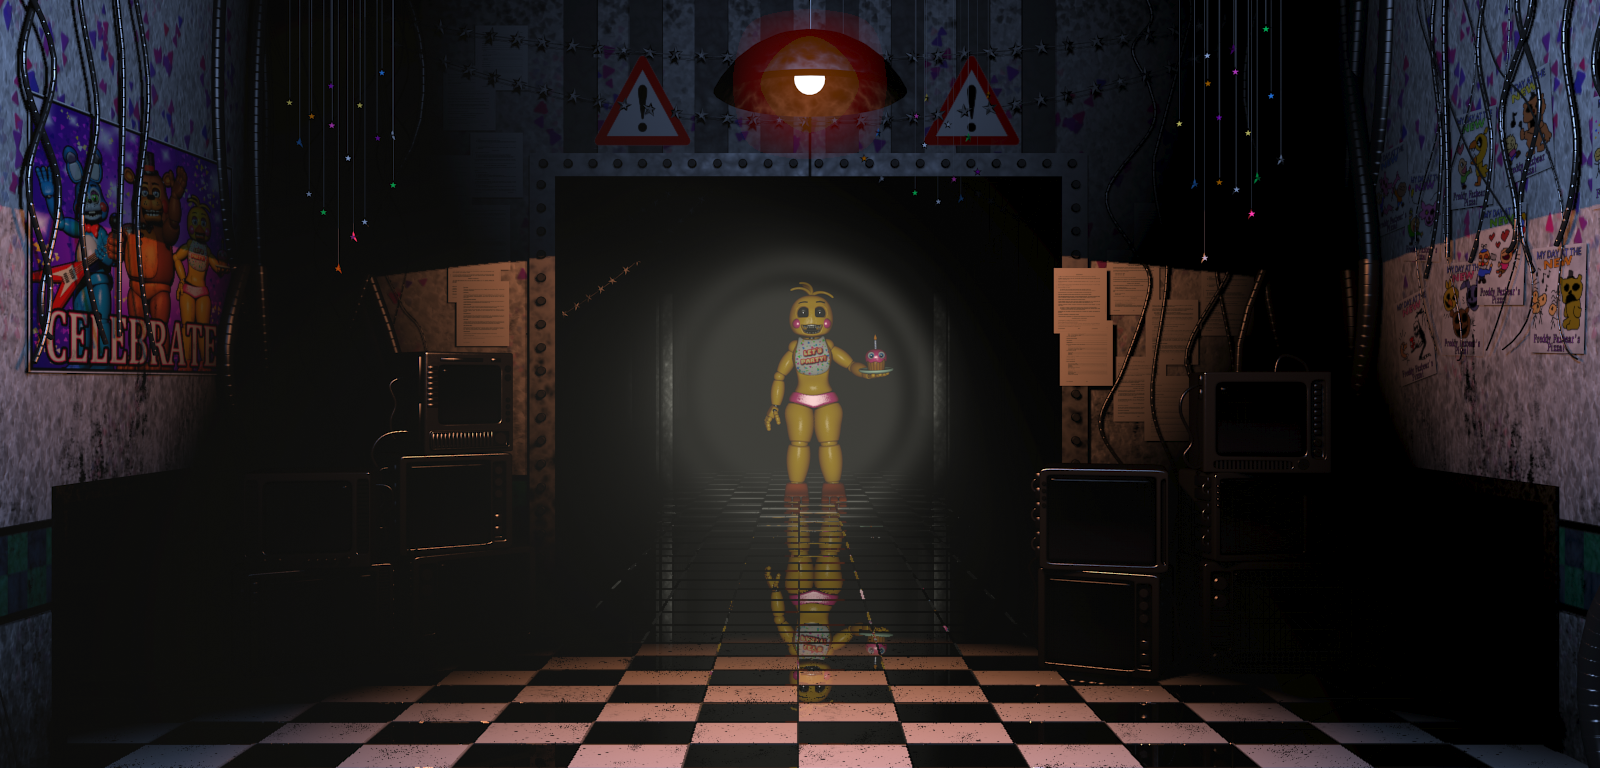
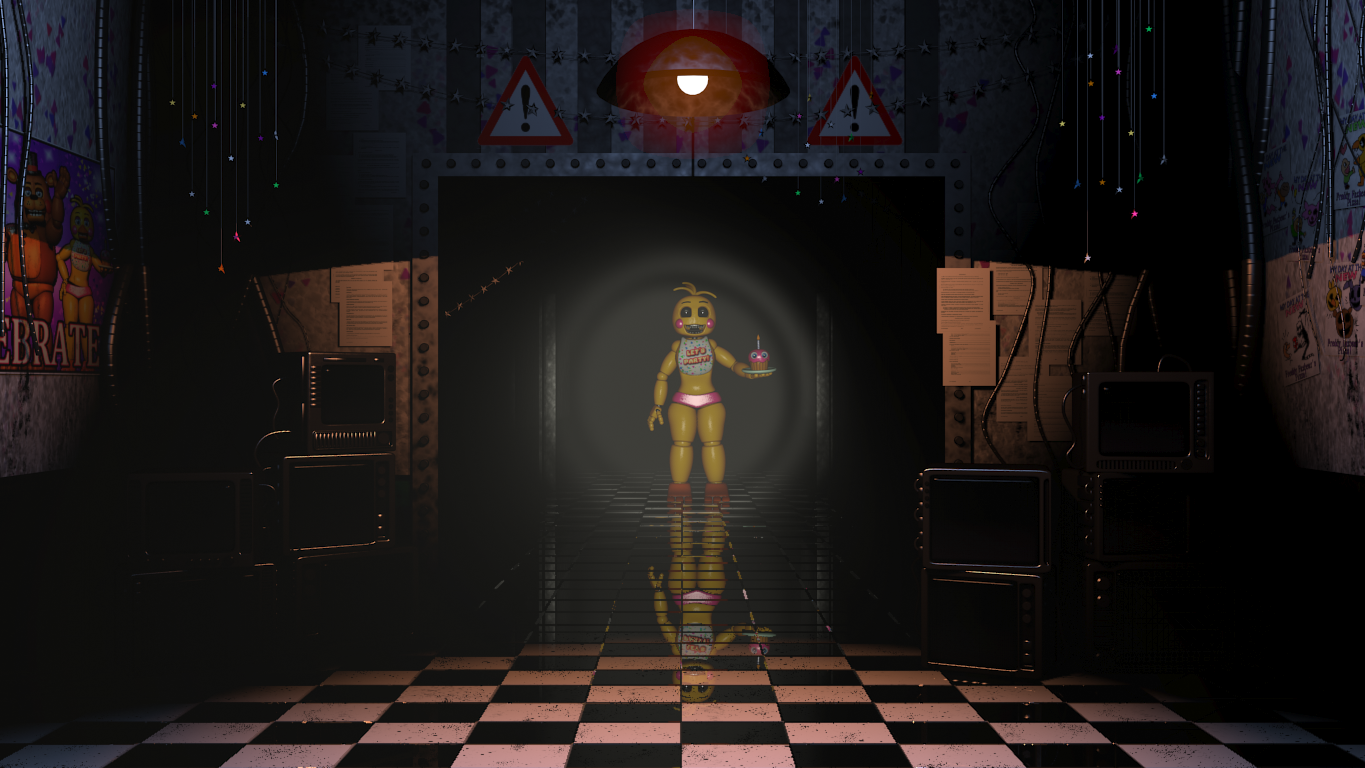
Coridor 13 14 check added

diff --git a/game/scene_frames.py b/game/scene_frames.py
@@ -61,10 +61,16 @@ class GameSceneFrames:
                 }
             }
 
-        if self.state.light == "center":
-            frames["sprites"]["center_light"] = {
+        if self.state.light == "centre":
+            frames["sprites"]["centre_light"] = {
                 "type": "static"
             }
+
+            for location in (13, 14):
+                for name in self.state.locations.get(location, []):
+                    frames["sprites"][f"centre_light_{location}_{name}"] = {
+                        "type": "static"
+                    }
 
         if self.state.is_removing_mask:
             frames["sprites"]["game_mask_off"] = {
@@ -174,13 +180,33 @@ class GameSceneFrames:
         }
         curr_sprites_frames = curr_scene_frames["sprites"]
 
-        if self.state.light == "center" and "center_light" not in curr_sprites_frames:
-            frames_data["update"]["center_light"] = {
-                "type": "static"
+        def update_centre_animatronics():
+            anim_sprites = {
+                f"centre_light_{location}_{name}"
+                for location in (13, 14)
+                for name in self.state.locations.get(location, [])
             }
 
-        if not self.state.light == "center" and "center_light" in curr_sprites_frames:
-            frames_data["delete"].append("center_light")
+            for sprite_name in anim_sprites:
+                if sprite_name not in curr_sprites_frames:
+                    frames_data["update"][sprite_name] = {
+                        "type": "static"
+                    }
+
+            for sprite_name in curr_sprites_frames:
+                if sprite_name.startswith("centre_light_") and sprite_name not in anim_sprites:
+                    frames_data["delete"].append(sprite_name)
+
+        if self.state.light == "centre":
+            if "centre_light" not in curr_sprites_frames:
+                frames_data["update"]["centre_light"] = {
+                    "type": "static"
+                }
+            update_centre_animatronics()
+        else:
+            for sprite_name in curr_sprites_frames:
+                if sprite_name == "centre_light" or sprite_name.startswith("centre_light_"):
+                    frames_data["delete"].append(sprite_name)
 
         if self.state.music_box.power < 20 and "danger_squard" not in curr_sprites_frames:
             frames_data["update"]["danger_squard"] = {
@@ -671,10 +697,6 @@ class GameSceneFrames:
                 if self.last_scene != "6am":
                     frames_data["rewrite"] = True
                     frames_data["update"] = self.am6_frames()
-                #else:
-                    #updated_frames = self.update_game_over_frames(curr_scene_frames, anim_state)
-                    #frames_data["update"] = updated_frames["update"]
-                    #frames_data["delete"] = updated_frames["delete"]
 
                 self.last_scene = "6am"
             else:

diff --git a/config/rooms.py b/config/rooms.py
@@ -107,17 +107,23 @@ ROOMS = {
                 "z": 6,
                 "padding": {"x": -14, "y": 0}
             },
-            #"center_light": {
-            #    "name": "game_center_light_big_l",
+            #"centre_light": {
+            #    "name": "game_centre_light_big_l",
             #    "x": 0,
             #    "y": 0,
             #    "z": 3,
             #},
-            "center_light": {
-                "name": "game_center_light",
+            "centre_light": {
+                "name": "game_centre_light",
                 "x": 122,
                 "y": 21,
                 "z": 3,
+            },
+            "centre_light_13_new_bird": {
+                "name": "game_centre_13_new_bird",
+                "x": "left",
+                "y": "top",
+                "z": 20,
             },
             "left_light": {
                 "name": "game_left_light",
@@ -280,11 +286,17 @@ ROOMS = {
                 "z": 6,
                 "padding": {"x": 38, "y": 0}
             },
-            "center_light": {
-                "name": "game_center_light",
+            "centre_light": {
+                "name": "game_centre_light",
                 "x": 70,
                 "y": 21,
                 "z": 3,
+            },
+            "centre_light_13_new_bird": {
+                "name": "game_centre_13_new_bird",
+                "x": "left",
+                "y": "top",
+                "z": 20,
             },
             "right_light": {
                 "name": "game_right_light",

diff --git a/config/sprite_registry.py b/config/sprite_registry.py
@@ -38,17 +38,21 @@ SPRITES = {
         "type": "static",
         "path": "game/office/r.txt",
     },
-    "game_center_light": {
+    "game_centre_light": {
         "type": "static",
-        "path": "game/office/center_light.txt",
+        "path": "game/office/centre_light.txt",
     },
-    "game_center_light_big_l": {
+    "game_centre_light_big_l": {
         "type": "static",
-        "path": "game/office/center_light_big_l.txt",
+        "path": "game/office/centre_light_big_l.txt",
     },
-    "game_center_light_big_r": {
+    "game_centre_light_big_r": {
         "type": "static",
-        "path": "game/office/center_light_big_r.txt",
+        "path": "game/office/centre_light_big_r.txt",
+    },
+    "game_centre_13_new_bird": {
+        "type": "static",
+        "path": "game/office/centre/13_new_bird.txt",
     },
     "game_left_light": {
         "type": "static",

diff --git a/scenes/game.py b/scenes/game.py
@@ -136,13 +136,13 @@ class GameScene(Scene):
                 else:
                     self.game.state.set_camera_light()
             else:
-                self.game.state.set_light("center")
+                self.game.state.set_light("centre")
 
         if input.was_released(keyboard.KeyCode.from_char('x')):
             if self.game.state.is_camera_open:
                 self.game.state.set_camera_light(False)
             else:
-                self.game.state.set_light("center", False)
+                self.game.state.set_light("centre", False)
 
         if input.was_pressed(keyboard.KeyCode.from_char('z')):
             if self.game.state.is_camera_open or self.game.state.is_tablet_opening_anim:

diff --git a/engine/renderer.py b/engine/renderer.py
@@ -33,7 +33,7 @@ class Renderer:
                 y = pad_y
             elif y == "bottom":
                 y = self.win_h - sprite_h - pad_y
-            elif y == "center":
+            elif y == "centre":
                 y = (self.win_h - sprite_h) // 2 + pad_y
             else:
                 raise ValueError(f"Unknown y alignment '{y}'")
@@ -47,7 +47,7 @@ class Renderer:
                 x = pad_x
             elif x == "right":
                 x = self.win_w - sprite_w - pad_x
-            elif x == "center":
+            elif x == "centre":
                 x = (self.win_w - sprite_w) // 2 + pad_x
             else:
                 raise ValueError(f"Unknown x alignment '{x}'")

diff --git a/game/systems/buttery.py b/game/systems/buttery.py
@@ -3,14 +3,14 @@ from utils.log import debug_log
 class ButterySystem:
     def __init__(self):
         self.power = 100
-        self.CENTER_LIGHT = 0.15
+        self.CENTRE_LIGHT = 0.15
         self.SIDE_LIGTH = 0.1
         self.CAMERA_LIGTH = 0.15
 
     def update(self, state, dt: float):
         drain = 0
-        if state.light == "center":
-            drain += self.CENTER_LIGHT
+        if state.light == "centre":
+            drain += self.CENTRE_LIGHT
         elif state.light == "left" or state.light == "right":
             drain += self.SIDE_LIGTH
         

diff --git a/config/anim.py b/config/anim.py
@@ -26,7 +26,7 @@ ANIMATRONICS = {
         "office_time": 5
     },
     "new_bird": {     #     +
-        "default_position": 9,
+        "default_position": 4,
         "path_graph": {
             9: [7],
             7: [4],
@@ -79,9 +79,8 @@ ANIMATRONICS = {
         "office_time": 5
     },
     "old_foxy": {
-        "default_position": 18,
+        "default_position": 8,
         "path_graph": {
-            18: [13, 8],
             8: [13],
             13: [15],
         },

diff --git a/game/state.py b/game/state.py
@@ -158,7 +158,9 @@ class GameState:
     def save_completed_night(self):
         config = load_config("save.json")
         if config["record_night"] < self.night_num:
-            config["record_night"] == self.night_num
-        config["curr_night"] += self.night_num
+            config["record_night"] = self.night_num
+        config["curr_night"] = self.night_num + 1
+        debug_log(config)
         save_config("save.json", config)
+
         self.is_night_progress_saved = True

diff --git a/config/nights.py b/config/nights.py
@@ -10,7 +10,7 @@ NIGHTS = {
             #"new_fred" : {
             #    "intelligence": 2
             #},
-            "mangle" : {
+            "new_bird" : {
                 "intelligence": 20
             },
         }
